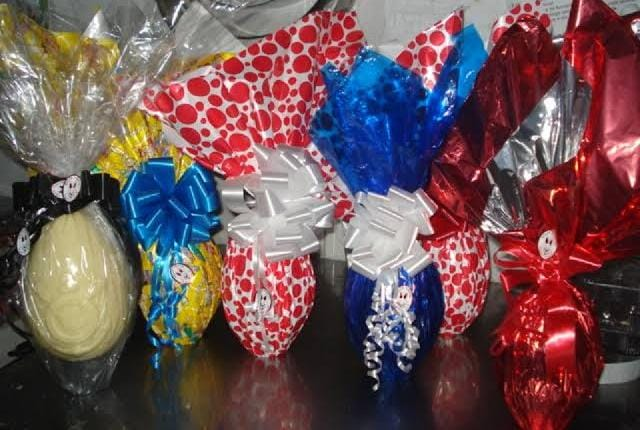
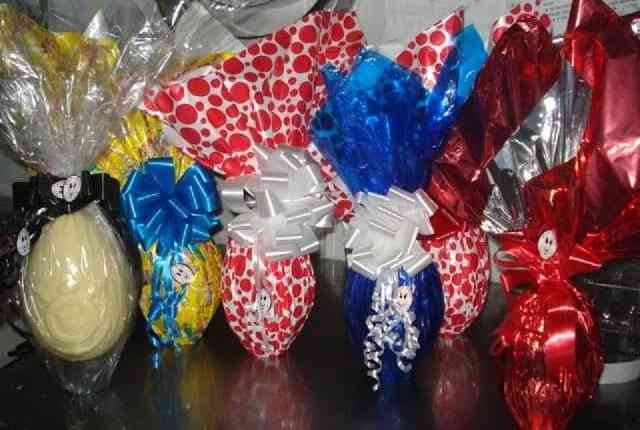
compress images

diff --git a/index.html b/index.html
@@ -91,7 +91,7 @@
       </div></header>
     <section class="u-clearfix u-custom-color-13 u-section-1" id="carousel_091f">
       <div class="u-clearfix u-sheet u-valign-middle-lg u-valign-middle-sm u-valign-middle-xs u-sheet-1">
-        <img alt="" class="u-image u-image-round u-radius-25 u-image-1" data-image-width="780" data-image-height="450" src="images/Ovo-Pe-de-Moleque_1000x1000-1-780x450.png">
+        <img alt="" class="u-image u-image-round u-radius-25 u-image-1" data-image-width="780" data-image-height="450" src="images/Ovo-Pe-de-Moleque.png">
         <div class="u-container-style u-group u-radius-25 u-shape-round u-white u-group-1">
           <div class="u-container-layout u-valign-top u-container-layout-1">
             <h2 class="u-custom-font u-font-playfair-display u-text u-text-custom-color-16 u-text-1" spellcheck="true">Ovos de Páscoa&nbsp;<br>do seu jeito!
